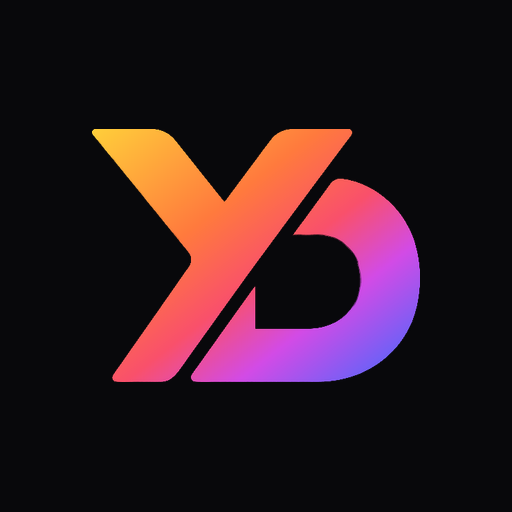
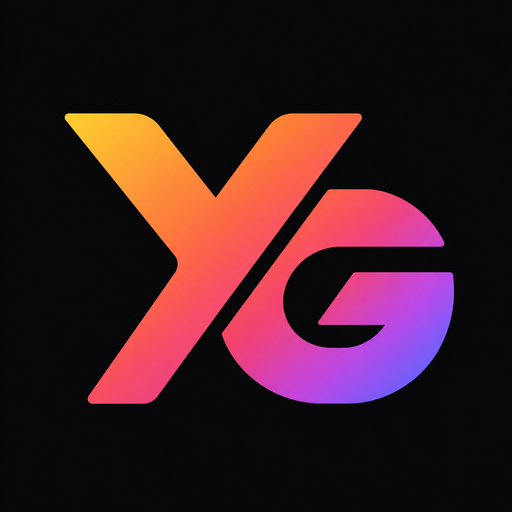
rebrand: YeahDays → YeahGrind + новый логотип YG
Проверка перед переименованием: домен yeahday.app занят прямым
конкурентом с почти идентичной идеей (XP, уровни, «streaks with mercy»,
конфетти на закрытии дня) — от «yeah day» ушли совсем. yeahgrind.app/.com
свободны, «YeahGrind» — уже собственный бренд пользователя.

Имя: 38 видимых «YeahDays» → «YeahGrind» в 24 файлах (UI, метаданные,
manifest, тексты пушей, политика, условия, онбординг, share-картинка).
Пользовательские имена файлов: yeahdays-export.json → yeahgrind-export.json,
share yeahdays.png → yeahgrind.png, console-префикс, VAPID-fallback.

СОХРАНЕНЫ намеренно (смена = потеря данных/состояния у существующих):
persist-ключ localStorage "yeahdays-store", "yeahdays-aid", имя кэша
service worker, dedup-tag пуша. Railway-URL — это адрес, не бренд, остаётся.

Логотип: пользователь дал новые «YG» (цветной градиент и белый, оба на
чёрном квадрате). scripts/process-yg.mjs:
- иконки (favicon/192/512/apple/maskable) — цветной квадрат как есть;
- логотипы шапки (logo.png/logo-white.png) — чёрный фон вырезан в
  прозрачность по яркости канала + обрезка полей, потому что знак стоит
  рядом с текстом. Проверено: угол alpha=0, метка alpha=255, на магенте
  чёрное исчезает без гало.

Проверено в браузере: YG в шапке чистый на тёмном фоне, «YeahGrind»
везде, title обновлён. Типы чистые, сборка чистая, 120 тестов.

diff --git a/src/app/page.tsx b/src/app/page.tsx
@@ -10,11 +10,11 @@ import SiteNav from "@/components/SiteNav";
 import Reveal, { RevealGroup, RevealItem } from "@/components/Reveal";
 
 export const metadata: Metadata = {
-  title: "YeahDays — одно действие в день",
+  title: "YeahGrind — одно действие в день",
   description:
     "Не список задач, а ежедневная колода действий под твоё состояние. Свайпнул — сделал — день засчитан.",
   openGraph: {
-    title: "YeahDays — одно действие в день",
+    title: "YeahGrind — одно действие в день",
     description:
       "Не список задач, а ежедневная колода действий под твоё состояние.",
     type: "website",
@@ -151,7 +151,7 @@ const FAQ = [
   },
   {
     q: "Чем это отличается от обычного тудушника?",
-    a: "Тудушник хранит то, что ты в него записал. YeahDays сам предлагает, что делать сегодня, под твоё состояние — и не даёт набрать десять дел, пока не закрыто текущее. Список задач при этом тоже есть.",
+    a: "Тудушник хранит то, что ты в него записал. YeahGrind сам предлагает, что делать сегодня, под твоё состояние — и не даёт набрать десять дел, пока не закрыто текущее. Список задач при этом тоже есть.",
   },
   {
     q: "Что если я пропущу день?",
@@ -219,7 +219,7 @@ export default function LandingPage() {
             </h1>
             <p className="mt-6 max-w-xl text-[17px] leading-relaxed text-[var(--color-fg-dim)] sm:text-[19px]">
               Списки задач копят вину: чем длиннее, тем меньше хочется их
-              открывать. YeahDays каждый день предлагает колоду действий под
+              открывать. YeahGrind каждый день предлагает колоду действий под
               твоё состояние. Свайпнул — сделал — день засчитан.
             </p>
             <div className="mt-9 flex flex-wrap items-center gap-4">
@@ -273,7 +273,7 @@ export default function LandingPage() {
             </h2>
             <p className="mt-6 max-w-2xl text-[16px] leading-relaxed text-[var(--color-fg-dim)]">
               Обычный трекер — это хранилище: ты сам придумал задачи, сам их
-              записал, сам про них забыл. YeahDays устроен наоборот. Он знает
+              записал, сам про них забыл. YeahGrind устроен наоборот. Он знает
               176 полезных действий и каждый день собирает из них небольшую
               колоду именно под тебя: под твои приоритеты, под время суток,
               под то, сколько у тебя сейчас сил и минут.
@@ -363,7 +363,7 @@ export default function LandingPage() {
             <Reveal>
               <Eyebrow>Обо мне</Eyebrow>
               <h2 className="mt-4 text-[32px] font-extrabold leading-[1.1] sm:text-[40px]">
-                Я делаю YeahDays
+                Я делаю YeahGrind
                 <br />
                 <span className="text-[var(--color-fg-dim)]">
                   для себя в первую очередь
@@ -371,7 +371,7 @@ export default function LandingPage() {
               </h2>
               <div className="mt-6 space-y-5 text-[15.5px] leading-relaxed text-[var(--color-fg-dim)]">
                 <p>
-                  Меня зовут Аят, я разработчик из Казахстана. YeahDays вырос из
+                  Меня зовут Аят, я разработчик из Казахстана. YeahGrind вырос из
                   моей собственной проблемы: обычные списки задач у меня не
                   работали. Чем длиннее становился список, тем меньше хотелось
                   его открывать — он превращался не в план, а в напоминание о

diff --git a/src/lib/routine.ts b/src/lib/routine.ts
@@ -155,7 +155,7 @@ const PORTFOLIO = A("rt-portfolio", "Проекты / портфолио", "По
 const CLIENTS = A("rt-clients", "Клиентские сайты / CLICKI", "Реальные задачи и реальные деньги", "career", 3, 90, "high", "morning");
 const NEXT_PROJ = A("rt-next-proj", "Next.js проект", "Свой продукт растёт из ежедневной работы над ним", "career", 4, 90, "high", "afternoon");
 const BACKEND_PROJ = A("rt-backend-proj", "Backend проект", "Сервер — половина продукта", "career", 4, 90, "high", "afternoon");
-const BRAND = A("rt-brand", "Личный бренд: YeahGrind / YeahDays", "Бренд копится по чуть-чуть и потом работает на тебя", "career", 3, 60, "medium", "afternoon");
+const BRAND = A("rt-brand", "Личный бренд: YeahGrind", "Бренд копится по чуть-чуть и потом работает на тебя", "career", 3, 60, "medium", "afternoon");
 const CLICKI = A("rt-clicki", "CLICKI / работа", "Основная работа — фундамент всего остального", "career", 3, 90, "medium", "evening");
 const OWN_PROJ = A("rt-own-proj", "Свой проект", "Вечер на своё дело, а не только на чужое", "career", 4, 90, "high", "evening");
 
@@ -208,7 +208,7 @@ export const ROUTINE: RoutineBlock[] = [
   work("b-wed-13", [WED], 13, 17, "React практика", REACT_PRACTICE, CODE_A),
   work("b-thu-13", [THU], 13, 17, "Backend проект", BACKEND_PROJ, PROJECT_A),
   work("b-fri-13", [FRI], 13, 17, "Архитектура + API", ARCH, CODE_A),
-  work("b-sat-13", [SAT], 13, 17, "Личный бренд YeahGrind / YeahDays", BRAND, PROJECT_A),
+  work("b-sat-13", [SAT], 13, 17, "Личный бренд YeahGrind", BRAND, PROJECT_A),
   work("b-sun-13", [SUN], 13, 17, "Разбор недели + отдых", WEEK_REVIEW, REFLECT_A),
 
   // 17–18 — отдых / движение

diff --git a/src/app/privacy/page.tsx b/src/app/privacy/page.tsx
@@ -4,9 +4,9 @@ import type { Metadata } from "next";
 import { Section, Mail } from "@/components/LegalSection";
 
 export const metadata: Metadata = {
-  title: "Политика конфиденциальности — YeahDays",
+  title: "Политика конфиденциальности — YeahGrind",
   description:
-    "Какие данные собирает YeahDays, на каком основании, кому передаёт и как их удалить.",
+    "Какие данные собирает YeahGrind, на каком основании, кому передаёт и как их удалить.",
 };
 
 const UPDATED = "27 июля 2026";
@@ -90,7 +90,7 @@ export default function PrivacyPage() {
 
       <Section title="1. Кто обрабатывает данные">
         Оператором персональных данных является {OWNER} (далее — «мы»),
-        владелец сервиса YeahDays. Связаться: <Mail />. Мы отвечаем на
+        владелец сервиса YeahGrind. Связаться: <Mail />. Мы отвечаем на
         обращения по данным в срок до 30 дней.
       </Section>
 
@@ -149,7 +149,7 @@ export default function PrivacyPage() {
         <br />
         <br />
         <strong>Использование данных Google API.</strong> Полученные данные
-        используются исключительно для работы твоего аккаунта в YeahDays. Мы
+        используются исключительно для работы твоего аккаунта в YeahGrind. Мы
         не передаём их третьим лицам, не используем для рекламы, не продаём
         и не применяем для обучения моделей. Это соответствует требованиям
         Google API Services User Data Policy, включая Limited Use.

diff --git a/src/app/terms/page.tsx b/src/app/terms/page.tsx
@@ -4,8 +4,8 @@ import { Section, Mail } from "@/components/LegalSection";
 import type { Metadata } from "next";
 
 export const metadata: Metadata = {
-  title: "Условия использования — YeahDays",
-  description: "Правила использования YeahDays.",
+  title: "Условия использования — YeahGrind",
+  description: "Правила использования YeahGrind.",
 };
 
 const UPDATED = "24 июля 2026";
@@ -38,7 +38,7 @@ export default function TermsPage() {
       </p>
 
       <Section title="1. О чём это">
-        YeahDays — приложение для ежедневных небольших действий: оно
+        YeahGrind — приложение для ежедневных небольших действий: оно
         предлагает подборку дел, помогает вести свои задачи и показывает
         прогресс. Пользуясь им, ты соглашаешься с этими условиями. Если
         что-то не устраивает — просто не пользуйся.

diff --git a/src/components/Logo.tsx b/src/components/Logo.tsx
@@ -14,13 +14,13 @@ interface LogoProps {
 const GLOW =
   "[filter:drop-shadow(0_0_18px_rgba(160,120,255,0.45))_drop-shadow(0_0_34px_rgba(249,90,110,0.25))]";
 
-/** Логотип YeahDays. Чёткая «YD»; свечение — опциональный CSS-эффект. */
+/** Логотип YeahGrind. Чёткая «YG»; свечение — опциональный CSS-эффект. */
 export default function Logo({ variant = "color", glow, className }: LogoProps) {
   return (
     // eslint-disable-next-line @next/next/no-img-element
     <img
       src={variant === "white" ? "/logo-white.png" : "/logo.png"}
-      alt="YeahDays"
+      alt="YeahGrind"
       draggable={false}
       className={cn("select-none object-contain", glow && GLOW, className)}
     />
@@ -33,7 +33,7 @@ export function LogoLoader() {
     <div className="flex flex-1 items-center justify-center">
       <motion.img
         src="/logo.png"
-        alt="YeahDays"
+        alt="YeahGrind"
         draggable={false}
         className={cn("h-14 w-auto select-none object-contain", GLOW)}
         animate={{ opacity: [0.6, 1, 0.6], scale: [0.96, 1, 0.96] }}

diff --git a/src/components/ShareCard.tsx b/src/components/ShareCard.tsx
@@ -54,14 +54,14 @@ export default function ShareCard() {
     try {
       const res = await fetch(url);
       const blob = await res.blob();
-      const file = new File([blob], "yeahdays.png", { type: "image/png" });
+      const file = new File([blob], "yeahgrind.png", { type: "image/png" });
       track("share_created", { streak, done });
 
       // нативный шеринг там, где он есть — сразу в сторис/мессенджер
       if (navigator.canShare?.({ files: [file] })) {
         await navigator.share({
           files: [file],
-          title: "YeahDays",
+          title: "YeahGrind",
           text: `Стрик ${streak} — ${done} действий`,
         });
         return;
@@ -71,7 +71,7 @@ export default function ShareCard() {
       const href = URL.createObjectURL(blob);
       const a = document.createElement("a");
       a.href = href;
-      a.download = "yeahdays.png";
+      a.download = "yeahgrind.png";
       a.click();
       URL.revokeObjectURL(href);
       setNote("Картинка сохранена");

diff --git a/public/sw.js b/public/sw.js
@@ -1,4 +1,4 @@
-/* YeahDays service worker — офлайн-кэш, обновление, push-уведомления */
+/* YeahGrind service worker — офлайн-кэш, обновление, push-уведомления */
 
 /**
  * Версия кэша берётся из ?v= в адресе регистрации, который подставляет
@@ -57,10 +57,10 @@ self.addEventListener("push", (event) => {
   try {
     data = event.data ? event.data.json() : {};
   } catch {
-    data = { title: "YeahDays", body: event.data ? event.data.text() : "" };
+    data = { title: "YeahGrind", body: event.data ? event.data.text() : "" };
   }
 
-  const title = data.title || "YeahDays";
+  const title = data.title || "YeahGrind";
   event.waitUntil(
     self.registration.showNotification(title, {
       body: data.body || "",

diff --git a/src/app/layout.tsx b/src/app/layout.tsx
@@ -15,15 +15,15 @@ const inter = Inter({
 });
 
 export const metadata: Metadata = {
-  applicationName: "YeahDays",
-  title: "YeahDays — одно действие в день",
+  applicationName: "YeahGrind",
+  title: "YeahGrind — одно действие в день",
   description:
     "Не список задач, а подборка действий под твоё состояние. Свайпни то, что берёшь на сегодня — и смотри, как растёт твой персонаж.",
   manifest: "/manifest.webmanifest",
   appleWebApp: {
     capable: true,
     statusBarStyle: "black-translucent",
-    title: "YeahDays",
+    title: "YeahGrind",
   },
   icons: {
     icon: [

diff --git a/src/components/StandaloneRedirect.tsx b/src/components/StandaloneRedirect.tsx
@@ -6,7 +6,7 @@ import { useRouter } from "next/navigation";
 /**
  * Установленное приложение не должно упираться в витрину.
  *
- * У тех, кто добавил YeahDays на домашний экран до появления лендинга,
+ * У тех, кто добавил YeahGrind на домашний экран до появления лендинга,
  * в манифесте закэширован start_url «/». Чтобы они не открывали каждый
  * раз рекламную страницу, из standalone-режима сразу уводим в «/app».
  *

diff --git a/src/components/Onboarding.tsx b/src/components/Onboarding.tsx
@@ -92,7 +92,7 @@ export default function Onboarding() {
                   <Logo glow className="h-28 w-auto" />
                 </motion.div>
                 <h1 className="mt-5 text-[34px] font-black leading-none tracking-tight">
-                  YeahDays
+                  YeahGrind
                 </h1>
                 <p className="mt-3 max-w-[300px] text-[16px] leading-snug text-[var(--color-fg-dim)]">
                   Одно небольшое действие в день делает тебя лучшей версией

diff --git a/src/components/InstallPrompt.tsx b/src/components/InstallPrompt.tsx
@@ -103,7 +103,7 @@ export default function InstallPrompt() {
               📲
             </div>
             <div className="min-w-0 flex-1">
-              <p className="text-[13px] font-semibold">Установи YeahDays</p>
+              <p className="text-[13px] font-semibold">Установи YeahGrind</p>
               <p className="truncate text-[11.5px] text-[var(--color-muted)]">
                 {ios && !evt
                   ? "Поделиться → «На экран «Домой»"

diff --git a/src/lib/analytics.ts b/src/lib/analytics.ts
@@ -112,7 +112,7 @@ export function track(event: AnalyticsEvent, props: Props = {}): void {
 /** Сообщить об ошибке. Тоже безопасно вызывать всегда. */
 export function reportError(error: unknown, context: Props = {}): void {
   if (typeof console !== "undefined") {
-    console.error("[yeahdays]", error, context);
+    console.error("[yeahgrind]", error, context);
   }
   if (!errorReportingEnabled || typeof window === "undefined") return;
   try {
